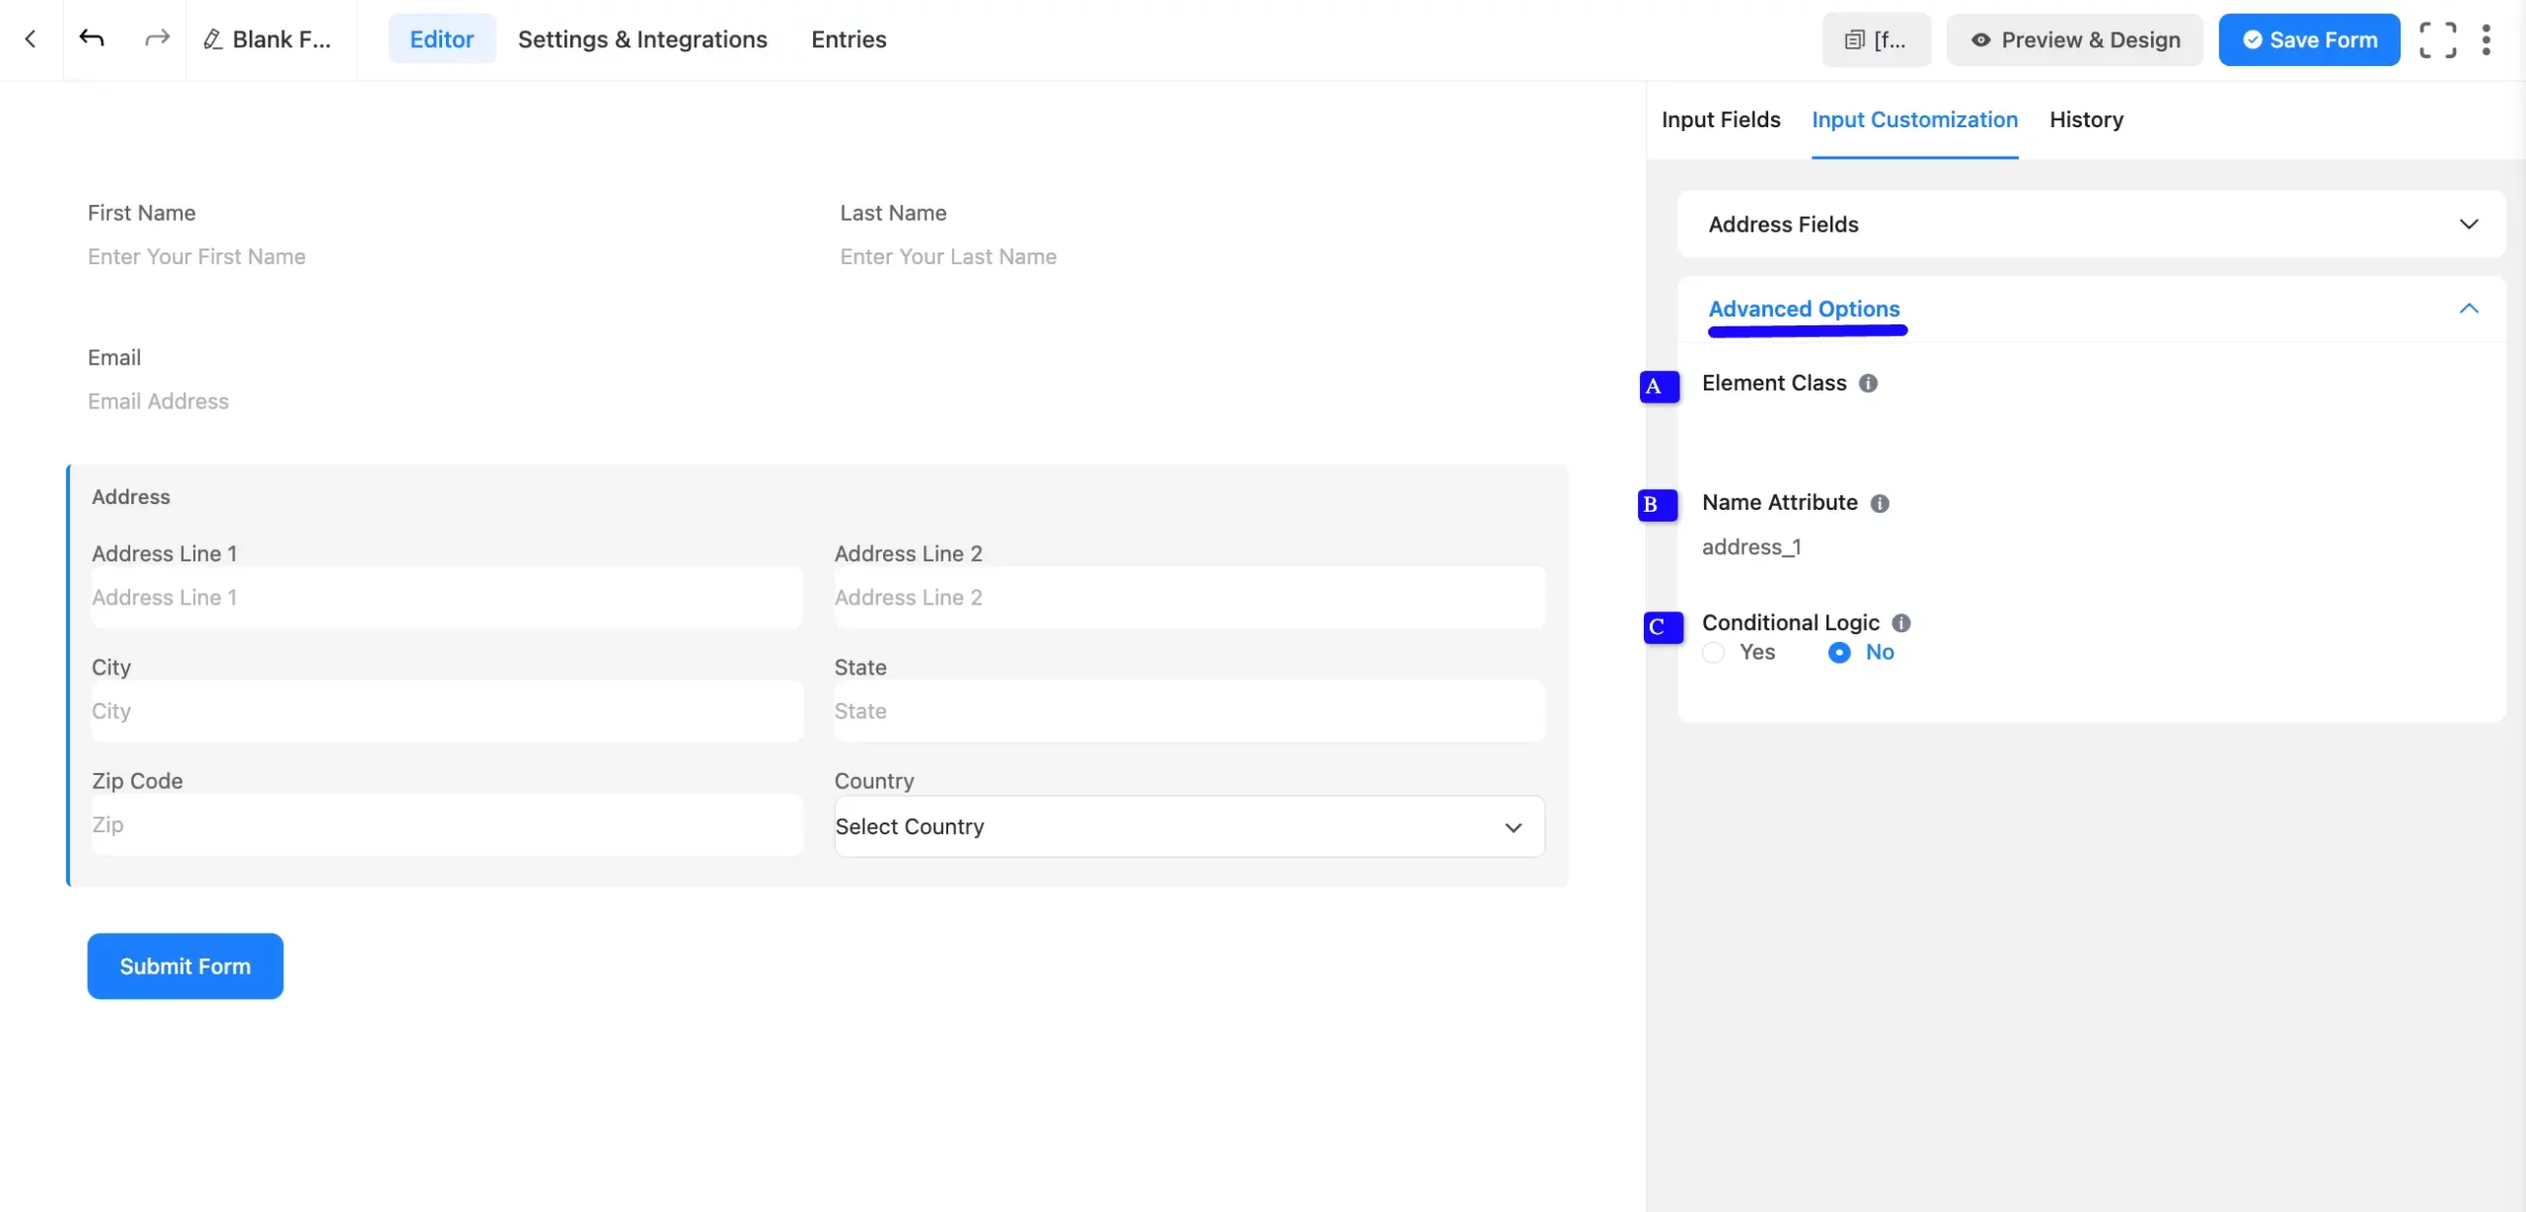
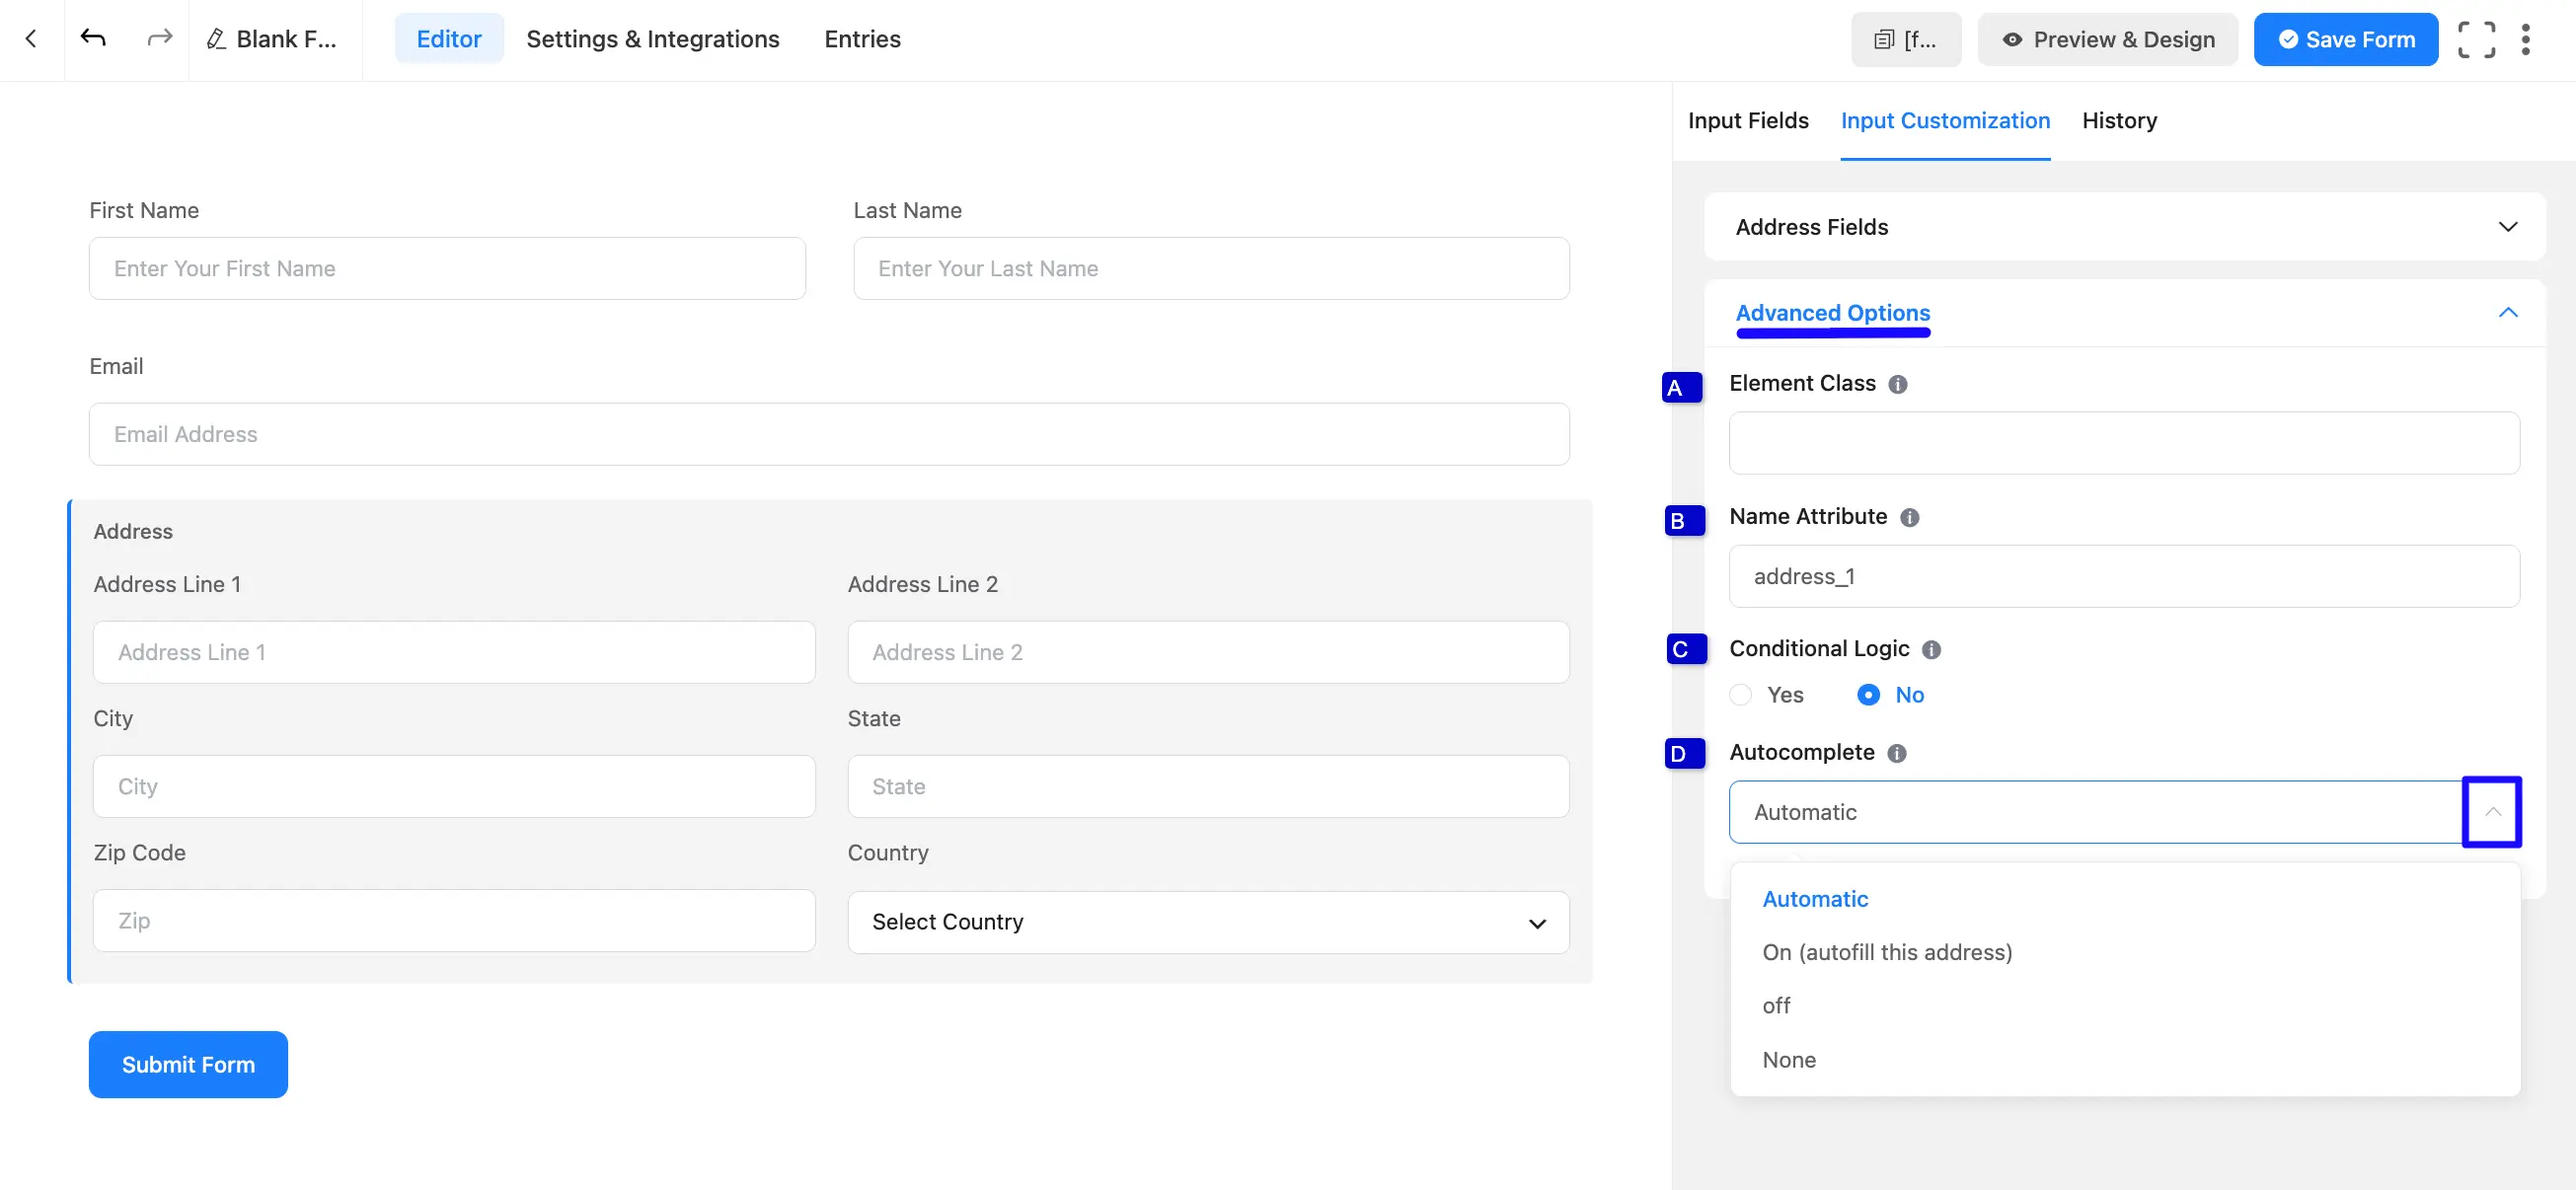
description and image update Address Input Field doc

diff --git a/docs/form-fields/general-fields/address-input-field.md b/docs/form-fields/general-fields/address-input-field.md
@@ -79,6 +79,10 @@ Advanced settings allow further customization to meet specific use cases.
 
 **C. Conditional Logic:** This option allows you to create specific rules to dynamically hide/show the input field to function conditionally based on your submission values according to your set of conditional logics. To learn more, read [Set up Forms with Conditional Logic in Fluent Forms](/set-up-forms-with-conditional-logic). 
 
+**D. Autocomplete:** Choose how browsers autofill the whole Address field. The options are **Automatic**, **On (autofill this address)**, **off**, and **None**. Address autofill stays off until you choose **On (autofill this address)**.
+
+It then gives each input, such as street, city, and zip code, its matching value. To learn more, read [Autocomplete for Form Fields](/autocomplete-for-form-fields).
+
 ![Advanced Options](/images/form-fields/general-fields/address-input-field/Advanced-options-08-1-scaled.webp)
 
 ## Embed the Form into the front
